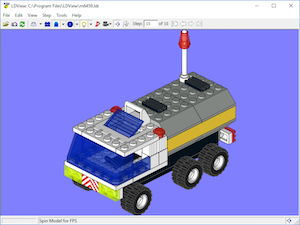
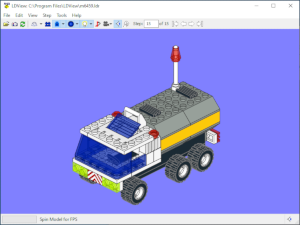
Update main screenshot, and have it support High DPI in web browsers.

Changed region(s): [[0.0, 0.0, 1.0, 1.0]]

diff --git a/index.html b/index.html
@@ -50,8 +50,9 @@ TABLE TD.HostedBy
 <BODY BGCOLOR="#F8F8F8" TEXT="#000000" VLINK="#505050" LINK="#808080"
 ALINK="#0080D0">
 <table class="MainTitle"><tr><th>LDView</th></tr></table>
-<A HREF="LDView.png"><IMG WIDTH=300 HEIGHT=225
-SRC="LDView-Thumb.png" ALT="LDView thumbnail" ALIGN="RIGHT"></A>
+<A HREF="LDView.html"><IMG WIDTH=300 HEIGHT=225
+SRC="LDView-Thumb.png" SRCSET="LDView-Thumb.png, LDView-High-Thumb.png 2x"
+ALT="LDView thumbnail" ALIGN="RIGHT"></A>
 <P>
 <B><I>LDView</I></B> is a real-time 3D viewer for displaying LDraw models using
 hardware-accellerated 3D graphics.  For information on LDraw, please visit

diff --git a/ldview.html b/ldview.html
@@ -1,0 +1,14 @@
+<!DOCTYPE html>
+<html>
+<head>
+<meta http-equiv="content-type" content="text/html;charset=utf-8">
+<title>LDView Screenshot</title>
+<link rel="shortcut icon" href="favicon.ico">
+<link rel="icon" type="image/x-icon" href="favicon.ico">
+</head>
+<body>
+    <div style="display: flex; justify-content: center;">
+        <img width=800 height=600 src="LDView.png" srcset="LDView.png, LDView-High.png 2x" alt="LDView Screenshot">
+    </div>
+</body>
+</html>
